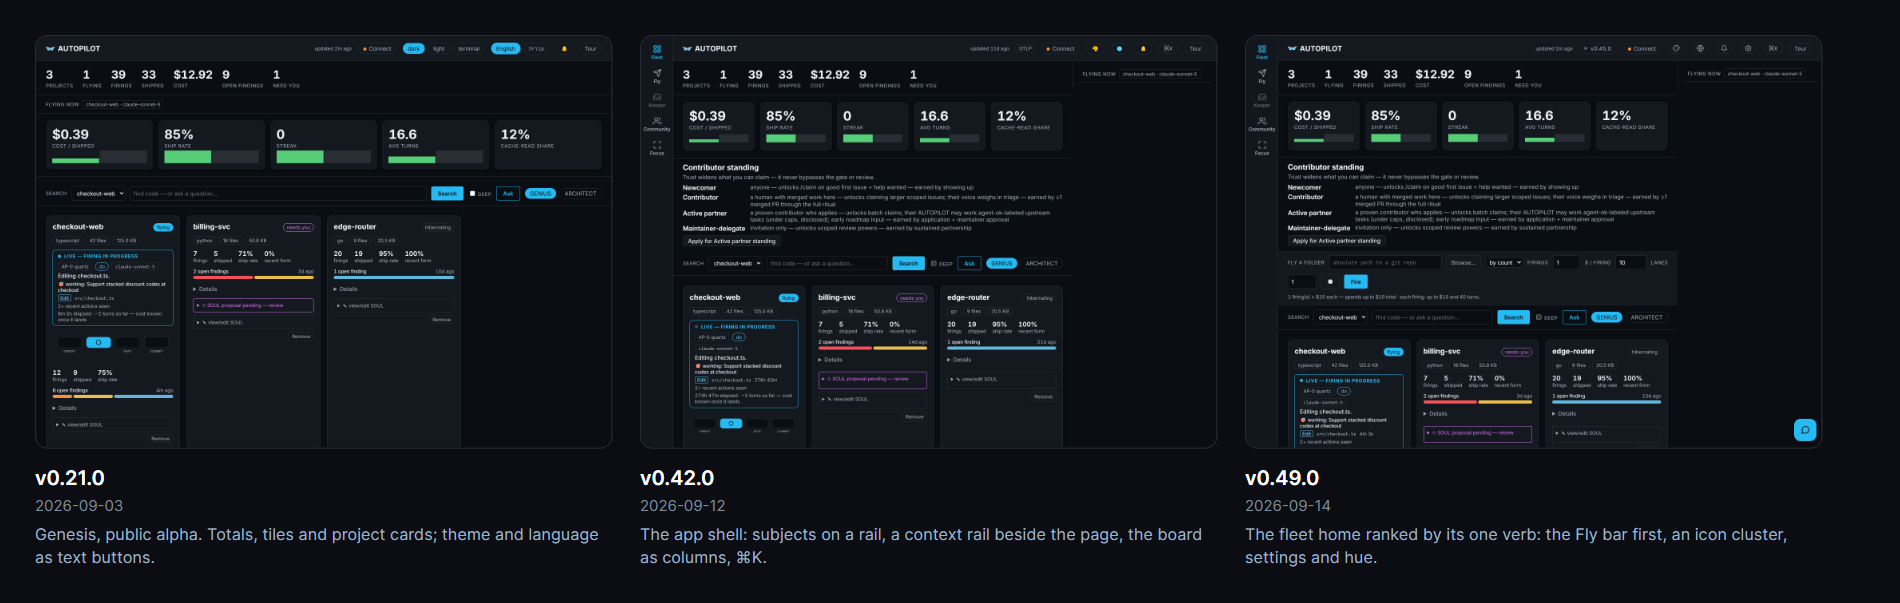
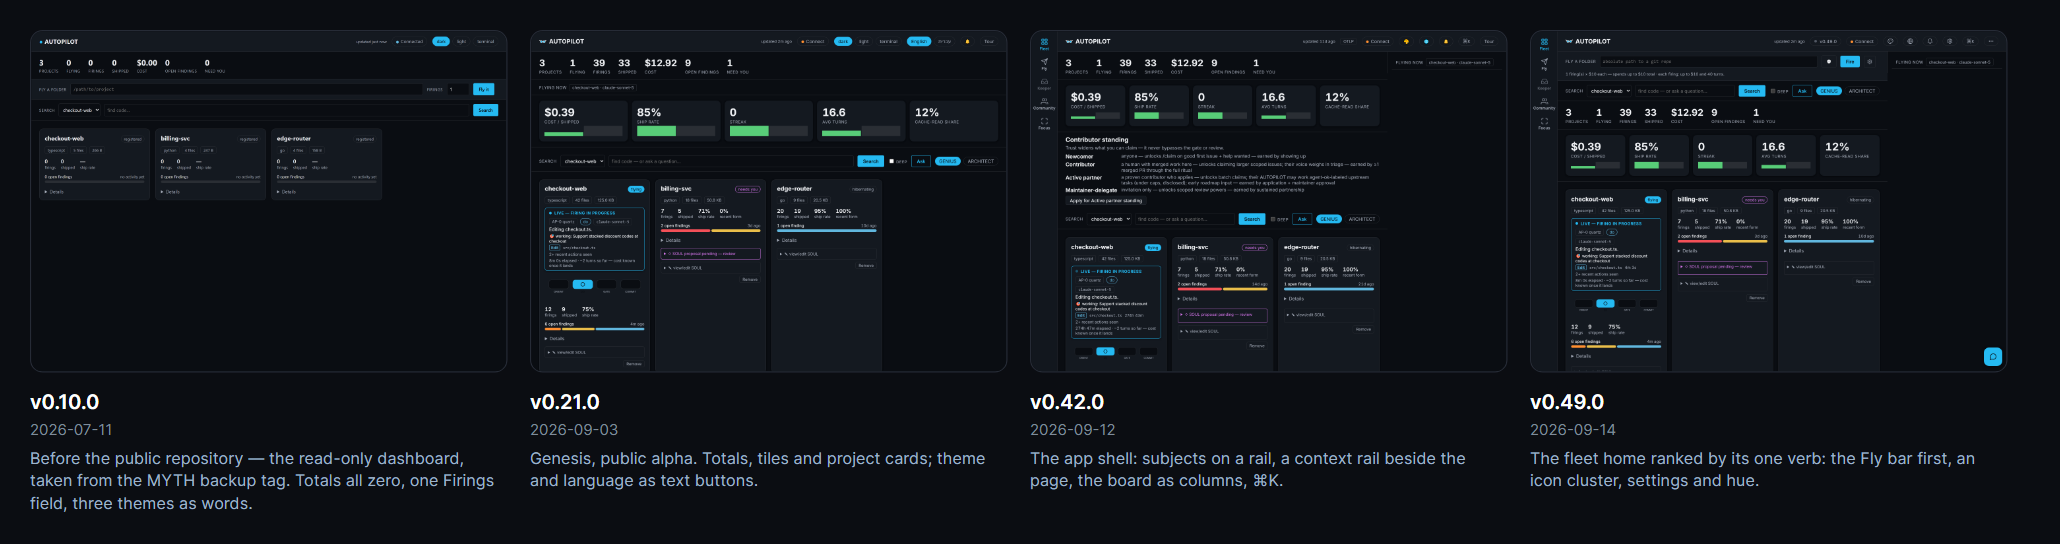
fix(flight): no cross-project leaks — one project's work never reaches another's pilot
The operator, after the calculator story: "there is no way I work on project A
and then pilot B gets a work suggestion or a task that belongs to A — pilot B
was opened on a completely different project." The calculator's board had
carried four DOC-FRESHNESS proposals about AUTOPILOT's own docs/epics/. Two
lanes had already guarded that sweep and the verify-by one; this closes the
class.

The stale-claim sweep ran at the end of every flight regardless of target, and
releasing a stale claim is a real GitHub write against this repository's pool —
the maintainer role check does not help, because the maintainer is exactly who
flies other folders. It now carries the same self-target guard.

The live one: the Lucky shortlist ranked THIS repository's pool and good-first
issues for any target. Flying a calculator, the panel offered AUTOPILOT's own
issues — and since yesterday's "hand to the pilot" verb writes a board task,
one click could have queued project A's issue onto project B's board. A roll
against anything but the engine's own checkout now answers with a plan and no
shortlist, until a target's own issues can be read.

cross-project-leak.test.ts is the census that keeps the class closed: each
guarded sweep is proved silent on a foreign target and still alive on its own,
the stale-claim sweep is proved to make no gh call at all, and the Lucky guard
is pinned as source. The calculator case study now records the leak as closed,
[…]

diff --git a/apps/dashboard/test/flight/cross-project-leak.test.ts b/apps/dashboard/test/flight/cross-project-leak.test.ts
@@ -1,0 +1,112 @@
+// SPDX-FileCopyrightText: 2026 1337 · REL AZEUS · MΔSTERMIND
+// SPDX-License-Identifier: Apache-2.0
+
+/**
+ * NO CROSS-PROJECT LEAKS (operator, 2026-09-14): "there is no way I work on
+ * project A and then pilot B gets a work suggestion or a task that belongs to
+ * A — pilot B was opened on a completely different project."
+ *
+ * Two shapes of leak, one law. A sweep that reads THIS repository's own files
+ * or maintains THIS repository's own pool must not run at the end of a flight
+ * over someone else's folder; and a panel that RANKS this repository's
+ * claimable work must not offer it to a foreign target — least of all now
+ * that a shortlist row can hand an issue to the pilot.
+ *
+ * This census is the guard: every sweep that takes a `target` is listed here
+ * with what it does on a foreign one. A new sweep that reads the engine's own
+ * tree and forgets the guard fails this file.
+ */
+
+import { describe, it, expect, vi } from 'vitest';
+import { mkdtempSync, mkdirSync, writeFileSync, readFileSync } from 'node:fs';
+import { tmpdir } from 'node:os';
+import { join } from 'node:path';
+import { openStore, migrate, recentTasks } from '@autopilot/store';
+import {
+  runDocFreshnessSweep,
+  runVerifyBySweep,
+  runStaleClaimSweep,
+} from '../../src/flight/post-flight-sweeps.js';
+
+const NOW = Date.parse('2026-09-14T12:00:00.000Z');
+const now = (): number => NOW;
+
+/** An engine checkout that WOULD produce findings: stale docs and a due note. */
+function engineRepoWithFindings(): string {
+  const dir = mkdtempSync(join(tmpdir(), 'ap-engine-'));
+  mkdirSync(join(dir, 'docs'), { recursive: true });
+  writeFileSync(
+    join(dir, 'docs', 'RESEARCH-LIBRARY.md'),
+    // The shape the parser reads: a level-2 heading whose parenthetical
+    // carries "verify by YYYY-MM-DD" (flight/verify-by.ts).
+    `# Research library\n\n## A note that is overdue (researched 2026-01-14, verify by 2026-02-01)\n`,
+  );
+  return dir;
+}
+
+function storeWithProject(): { store: ReturnType<typeof openStore>; projectId: string } {
+  const dir = mkdtempSync(join(tmpdir(), 'ap-store-'));
+  const store = openStore(join(dir, 'test.db'));
+  migrate(store);
+  const projectId = 'foreign-project';
+  store.db
+    .prepare(
+      `INSERT INTO projects (id, slug, name, root_path, status, created_at, updated_at)
+         VALUES (?, 'calculator', 'calculator', ?, 'registered', ?, ?)`,
+    )
+    .run(projectId, join(dir, 'calculator'), NOW, NOW);
+  return { store, projectId };
+}
+
+describe('a flight over a foreign folder never proposes this repository’s own work', () => {
+  it('the doc-freshness sweep writes nothing when the target is not the engine checkout', () => {
+    const { store, projectId } = storeWithProject();
+    const engineRepo = engineRepoWithFindings();
+
+    runDocFreshnessSweep(store, projectId, now, join(engineRepo, 'somewhere-else'), engineRepo);
+    expect(recentTasks(store.db, projectId)).toHaveLength(0);
+
+    // …and still works when the flight IS this repository (the guard is a
+    // target check, not a switch that turned the sweep off).
+    runDocFreshnessSweep(store, projectId, now, engineRepo, engineRepo);
+    // No docs/ subjects exist in the fixture, so the sweep finds nothing to
+    // propose — what matters is that it was allowed to look.
+    expect(recentTasks(store.db, projectId).length).toBeGreaterThanOrEqual(0);
+  });
+
+  it('the verify-by sweep writes nothing when the target is not the engine checkout', () => {
+    const { store, projectId } = storeWithProject();
+    const engineRepo = engineRepoWithFindings();
+
+    runVerifyBySweep(store, projectId, now, join(engineRepo, 'somewhere-else'), engineRepo);
+    expect(recentTasks(store.db, projectId)).toHaveLength(0);
+
+    runVerifyBySweep(store, projectId, now, engineRepo, engineRepo);
+    const titles = recentTasks(store.db, projectId).map((t) => t.title);
+    expect(titles.some((t) => t.includes('VERIFY-BY'))).toBe(true);
+  });
+
+  it('the stale-claim sweep touches no GitHub command when the target is not the engine checkout', async () => {
+    const exec = vi.fn(async () => ({ ok: true, stdout: '[]', stderr: '' }));
+    const released = await runStaleClaimSweep(
+      now,
+      exec as never,
+      '/some/other/folder',
+      '/the/engine/repo',
+    );
+    expect(released).toEqual([]);
+    // Not one `gh` call — a claim release is a real write against this
+    // repository's pool, and the maintainer is exactly who flies other folders.
+    expect(exec).not.toHaveBeenCalled();
+  });
+
+  it('the lucky roll offers no shortlist for a foreign target — the pool is this repository’s own', () => {
+    // The wiring lives in server/main.ts: `rollLuckyFit(..., target === resolve(process.cwd()))`
+    // and the roller returns undefined when that is false. Pinned as source so
+    // the guard cannot be dropped while the call still compiles.
+    const main = readFileSync(new URL('../../src/server/main.ts', import.meta.url), 'utf8');
+    expect(main).toContain('isSelfTarget: boolean,');
+    expect(main).toContain('if (!isSelfTarget) return undefined;');
+    expect(main).toContain('target === resolve(process.cwd()),');
+  });
+});

diff --git a/apps/dashboard/src/server/main.ts b/apps/dashboard/src/server/main.ts
@@ -538,7 +538,15 @@ async function rollLuckyFit(
   lanes: number,
   firingsFlown: number,
   ask: LuckyAsk,
+  isSelfTarget: boolean,
 ): Promise<LuckyFit | undefined> {
+  // CROSS-PROJECT LEAK (operator, 2026-09-14): the pool and good-first lists
+  // are THIS repository's own claimable work. Ranked for a foreign target they
+  // offered project A's issues to project B's pilot — and with the shortlist's
+  // "hand to the pilot" verb they could have been written onto B's board. A
+  // roll against anything but the engine's own checkout answers with a plan
+  // and no shortlist, until a target's own issues can be read (epic 0006).
+  if (!isSelfTarget) return undefined;
   try {
     const [pool, people] = await Promise.all([
       poolClientPreview().catch(() => []),
@@ -602,7 +610,13 @@ const server = createServer({
       runningFlights,
     };
     const plan = luckyPlan(probe);
-    const fit = await rollLuckyFit(projectId, plan.lanes, fleet.totals.firings, ask);
+    const fit = await rollLuckyFit(
+      projectId,
+      plan.lanes,
+      fleet.totals.firings,
+      ask,
+      target === resolve(process.cwd()),
+    );
     return fit ? { probe, plan, fit, projectId } : { probe, plan, projectId };
   },
   flight: flightApi,

diff --git a/apps/dashboard/src/flight/post-flight-sweeps.ts b/apps/dashboard/src/flight/post-flight-sweeps.ts
@@ -482,7 +482,16 @@ export function runFleetWisdomSweep(store: Store, now: () => number): void {
 export async function runStaleClaimSweep(
   now: () => number,
   exec: CliExec = ghExec,
+  target?: string,
+  engineRepo: string = process.cwd(),
 ): Promise<readonly MirrorPassClaimedIssue[]> {
+  // CROSS-PROJECT LEAK (operator, 2026-09-14): releasing a stale claim is a
+  // real GitHub write against THIS repository's pool. A flight over someone
+  // else's folder must not perform this repository's housekeeping — the
+  // maintainer role check is not enough, because the maintainer is exactly
+  // who flies other folders. Same self-target guard the doc-freshness and
+  // verify-by sweeps carry.
+  if (target !== undefined && target !== engineRepo) return [];
   try {
     const identity = await resolveSocialIdentity(exec);
     if (identity === undefined || identity.role !== 'maintainer') return [];

diff --git a/apps/dashboard/src/fly.ts b/apps/dashboard/src/fly.ts
@@ -1757,7 +1757,7 @@ async function main(): Promise<void> {
 
     await runClosedTaskAuditSweep(store, projectId, vcs, now);
 
-    await runStaleClaimSweep(now);
+    await runStaleClaimSweep(now, undefined, target);
 
     runSoulMiningSweep(store, projectId, now);
 

diff --git a/docs/CASE-STUDIES/calculator-five-firings.md b/docs/CASE-STUDIES/calculator-five-firings.md
@@ -63,11 +63,26 @@ demanded), `8 ÷ 0 =` (`Error`, and the next key recovers), and `12.5 × 2 =`.
 - The flight's sandbox has no browser, so the pilot verified the page under
   jsdom and said so in its commit. The frames here were taken afterwards in
   a real Chromium — the page works by mouse and keyboard as promised.
-- A defect surfaced: after the first flight the calculator's board carried
-  four doc-freshness proposals about AUTOPILOT's own `docs/epics/` — the
-  post-flight sweep had scanned the dashboard's checkout instead of the
-  flight's target. Boarded as a high-severity task the same hour; not a
-  cause for the story, but part of it.
+- **A cross-project leak surfaced — and is closed.** After the first flight the
+  calculator's board carried four DOC-FRESHNESS proposals about AUTOPILOT's own
+  `docs/epics/`: the post-flight sweep had scanned the dashboard's checkout
+  instead of the flight's target. Boarded the same hour, fixed the next day, and
+  widened past the one sweep that was reported. The doc-freshness and verify-by
+  sweeps now return early unless the flight IS the engine's own checkout; the
+  stale-claim sweep carries the same guard, because releasing a claim is a real
+  write against this repository's pool and the maintainer is exactly who flies
+  other folders; and the Lucky shortlist no longer offers this repository's
+  claimable work to a foreign target — it ranked AUTOPILOT's own pool issues on
+  every project, and the new "hand to the pilot" verb could have written one
+  onto the calculator's board.
+  [`cross-project-leak.test.ts`](../../apps/dashboard/test/flight/cross-project-leak.test.ts)
+  is the census that keeps it closed: a sweep that reads the engine's own tree
+  and forgets the guard fails that file.
+- **A second leak the story exposed.** The first firing archived the INBOX note
+  inside the operator's own checkout without committing it, so every later
+  sync-back refused with "uncommitted changes" and the work stayed in the
+  flight's worktree until it was merged by hand. Boarded as high severity; the
+  frames above were taken from that worktree.
 
 ## Reproduce it
 
